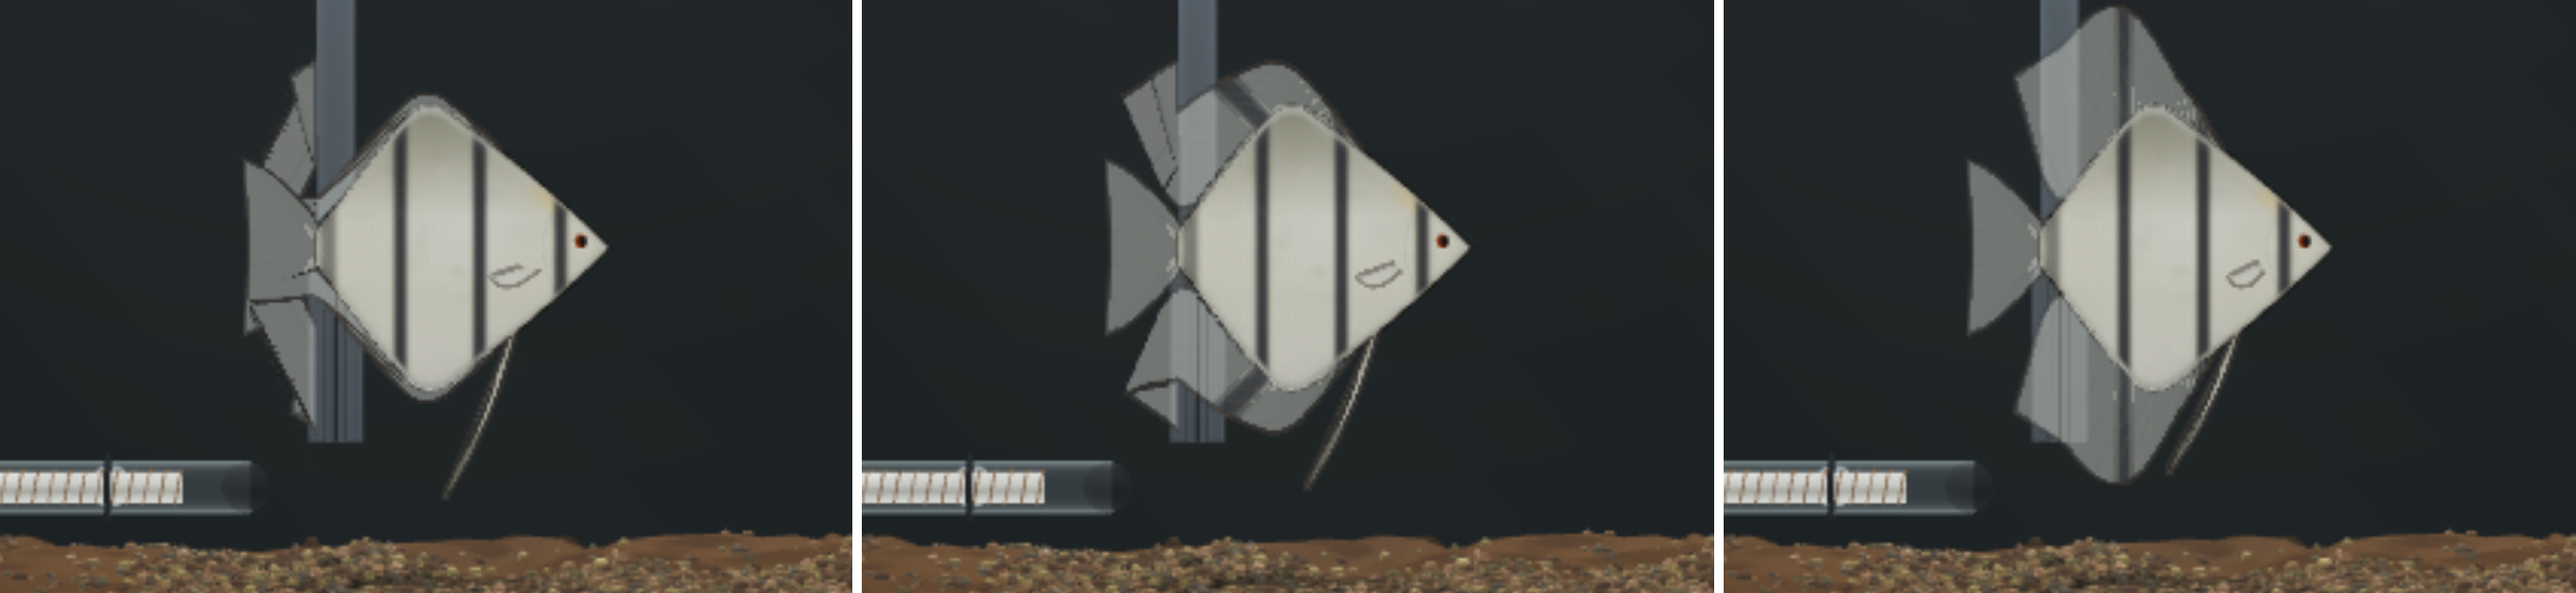
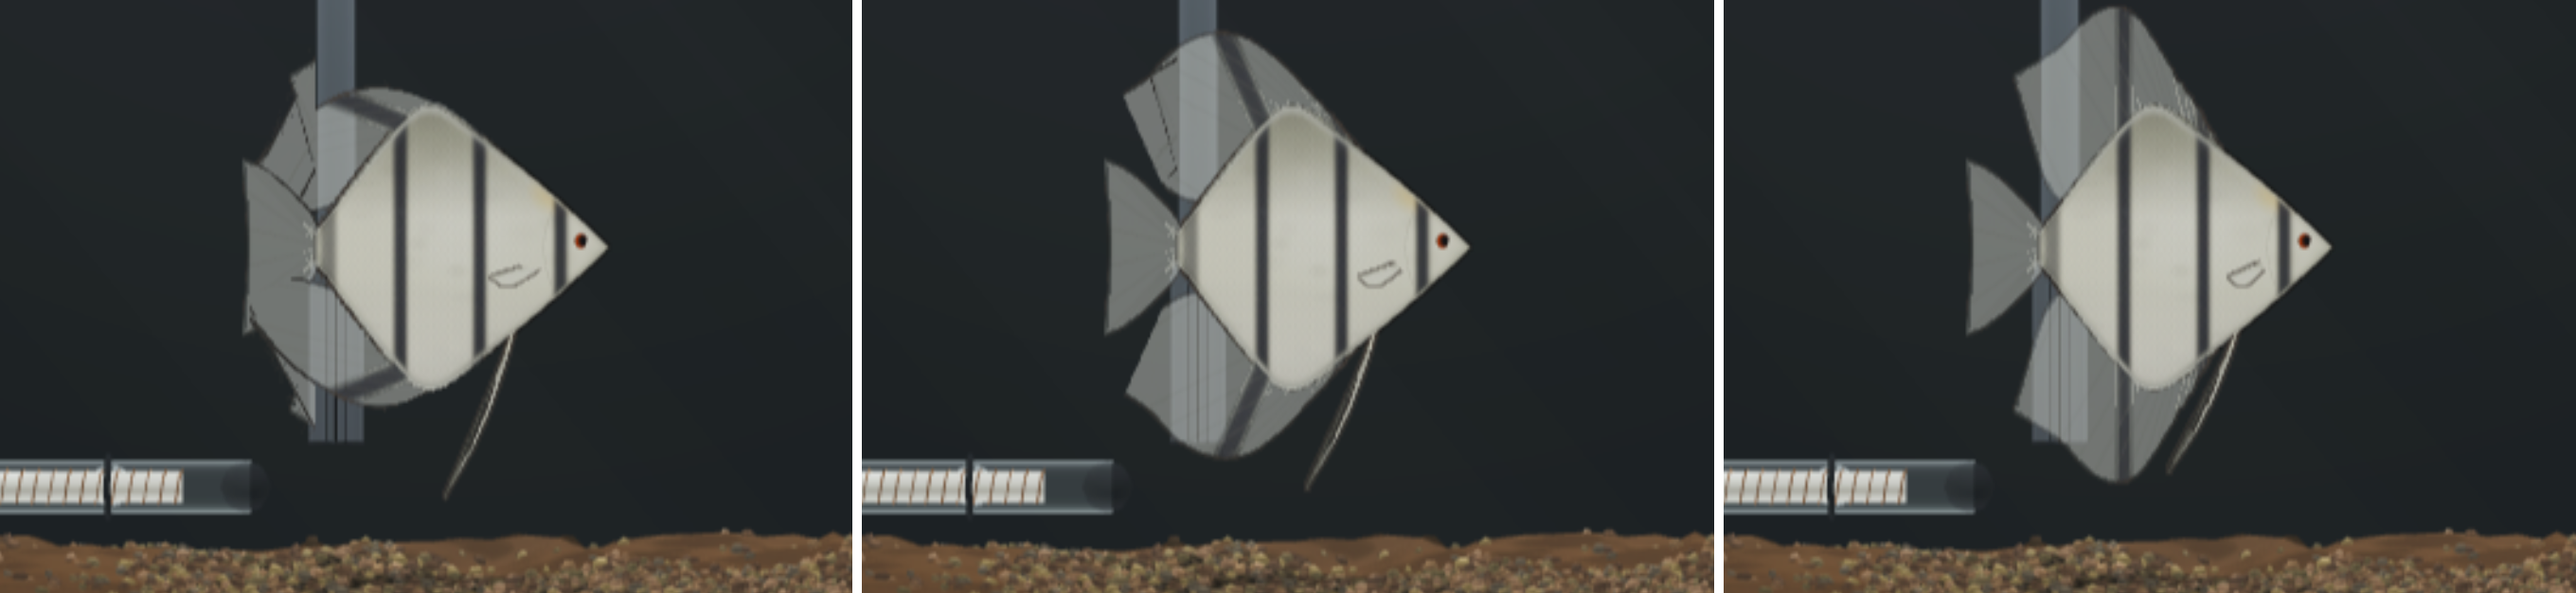
FE1: every species defaults to fin 1 (today's pose) except bristlenose; angel range narrowed to 0.85..1 (tall-sail fold still breaks into shards); fold lifts by its own base, never under the outline; discus shots

diff --git a/src/art/fishgen.ts b/src/art/fishgen.ts
@@ -1071,12 +1071,14 @@ export const bodyPlan = (art: string): Plan | undefined => PLANS[art] ?? SHRIMP_
  * bettas flare, tetras hold theirs about the same all the time).
  */
 export interface FinRange { lo: number; hi: number; def: number }
-const FIN_FAMILY: FinRange = { lo: 0.45, hi: 1, def: 0.8 };
-const FIN_TETRA: FinRange = { lo: 0.7, hi: 0.9, def: 0.8 };
-const FIN_CICHLID: FinRange = { lo: 0.4, hi: 1, def: 0.8 };
-const FIN_TANG: FinRange = { lo: 0.2, hi: 1, def: 0.7 };
+// def is 1 (the drawn card, today's pose) for all but the bristlenose, so an unshuffled tank looks as it always has
+const FIN_FAMILY: FinRange = { lo: 0.45, hi: 1, def: 1 };
+const FIN_TETRA: FinRange = { lo: 0.7, hi: 0.9, def: 1 };
+const FIN_CICHLID: FinRange = { lo: 0.4, hi: 1, def: 1 };
+const FIN_TANG: FinRange = { lo: 0.2, hi: 1, def: 1 };
+// angel: narrowed to 0.85..1 until the fold of its tall swept sails lies back as one clean sheet (follow-up; below ~0.7 it breaks into shards)
 const FIN_RANGE: Record<string, FinRange> = {
-  bristlenose: { lo: 0.1, hi: 0.9, def: 0.35 }, betta: { lo: 0.7, hi: 1, def: 0.9 }, angel: { lo: 0.6, hi: 1, def: 0.85 },
+  bristlenose: { lo: 0.1, hi: 0.9, def: 0.35 }, betta: { lo: 0.7, hi: 1, def: 1 }, angel: { lo: 0.85, hi: 1, def: 1 },
   yellowtang: FIN_TANG, bluetang: FIN_TANG,
   cardinal: FIN_TETRA, tetra: FIN_TETRA, ember: FIN_TETRA, rummynose: FIN_TETRA, dwarfpencil: FIN_TETRA, harlequin: FIN_TETRA, chili: FIN_TETRA,
   kribensis: FIN_CICHLID, discus: FIN_CICHLID, oscar: FIN_CICHLID, bolivianram: FIN_CICHLID, cockatoo: FIN_CICHLID, peacock: FIN_CICHLID,

diff --git a/src/render/fish3d.ts b/src/render/fish3d.ts
@@ -741,7 +741,7 @@ export function drapedCard(art: string, w: number, h: number, bend: number, fin 
       const up = t - v, dn = v - b;
       if (up > 0 || dn > 0) {
         const out = Math.max(up, dn), u2 = Math.max(0.02, u - out * sa * 0.55), [t2, b2] = prof(Math.max(u2, p.pedU));
-        const v2 = up > 0 ? t2 - out * ca - 0.003 * sa : b2 + out * ca + 0.003 * sa;
+        const v2 = up > 0 ? Math.min(t - out * ca, t2 - 0.003) : Math.max(b + out * ca, b2 + 0.003); // lifted by its own base, never below the outline it lies over (continuous: no shards over a body's apex)
         x = (u2 - 0.5) * w; y = -v2 * w;
       }
     }

diff --git a/scripts/fe1-sheet.py b/scripts/fe1-sheet.py
@@ -1,6 +1,6 @@
 # Strips of the fin 0 / 50 / 100 pictures per species -> research/screens/FE1/
 from PIL import Image
-for sp in ['bristlenose', 'betta', 'angel', 'bluetang']:
+for sp in ['bristlenose', 'betta', 'angel', 'bluetang', 'discus']:
     ims = [Image.open(f'shots/fe1_{sp}_fin{n}.png').convert('RGB') for n in (0, 50, 100)]
     c = Image.new('RGB', (sum(i.width for i in ims) + 20, max(i.height for i in ims)), 'white'); x = 0
     for i in ims: c.paste(i, (x, 0)); x += i.width + 10
